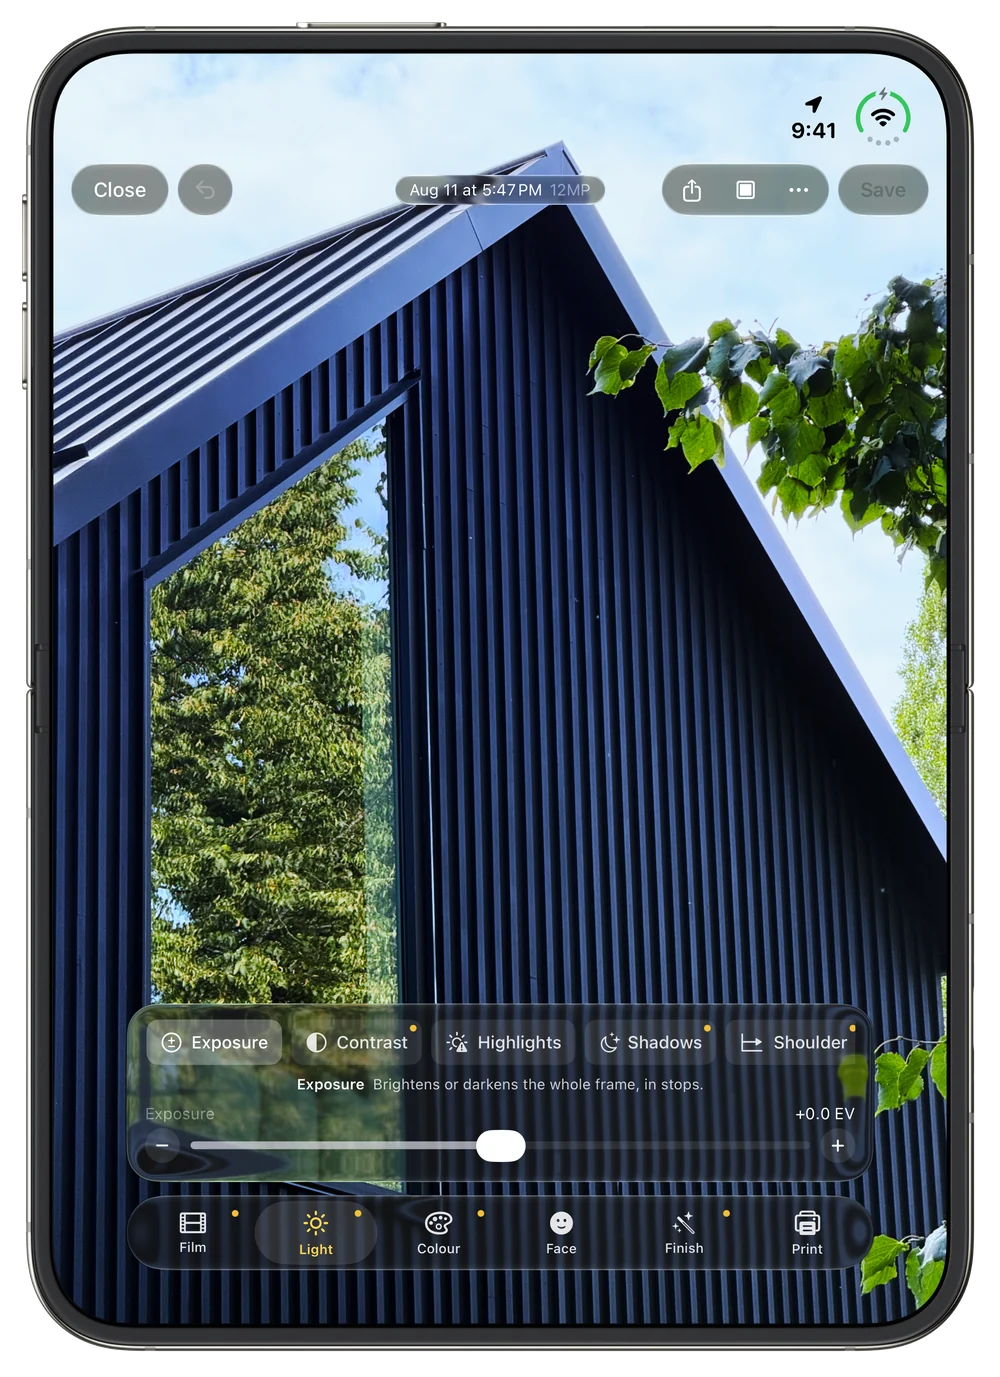
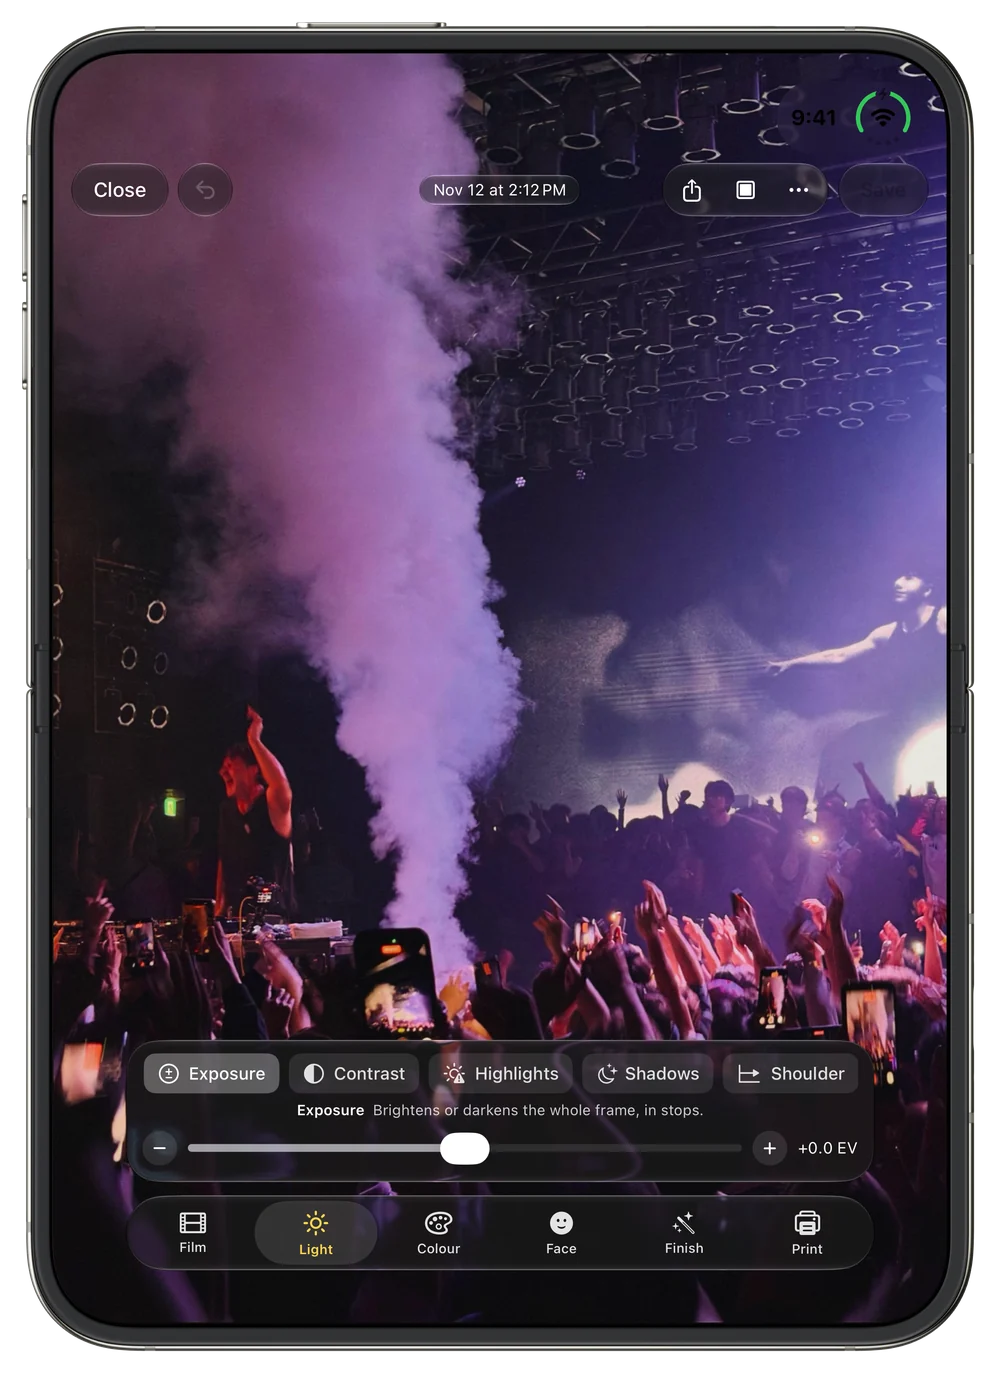
Home: the owner's lantern alley in the Field phone, on a white matte, and his concert in the Duo's editor

diff --git a/index.html b/index.html
@@ -653,7 +653,7 @@
         <div class="note glass"><b>Tap the photo</b> and it is only the picture.</div>
       </div>
       <div class="reveal d1">
-        <img src="/assets/duo-upright-editor.webp" width="1000" height="1377" loading="lazy"
+        <img src="/assets/duo-upright-editor.webp?v=2" width="1000" height="1377" loading="lazy"
              alt="Haku's immersive editor on an upright open iPhone Duo">
         <div class="note glass"><b>Your original stays untouched.</b> Every edit is a recipe you can change, copy or undo, forever.</div>
       </div>
@@ -813,7 +813,7 @@
     <div class="bodies">
       <figure class="reveal"><img src="/assets/iphone-classic-dials.webp?v=2" width="760" height="1554" loading="lazy" alt="Classic body with its shutter, ISO and EV dials">
         <figcaption class="cap">Classic</figcaption><p class="dim">Dials that turn and click, in black leather, where a rangefinder keeps them.</p></figure>
-      <figure class="reveal d1"><img src="/assets/iphone-field.webp?v=2" width="760" height="1554" loading="lazy" alt="Field body">
+      <figure class="reveal d1"><img src="/assets/iphone-field.webp?v=3" width="760" height="1554" loading="lazy" alt="Field body, the viewfinder on a lantern-lit alley">
         <figcaption class="cap">Field</figcaption><p class="dim">Chunky keys with little lights, an LCD that reads like the real thing, and one big orange button you will want to press. Every control is a key; none of them hides in a menu.</p></figure>
       <figure class="reveal d2"><img src="/assets/iphone-modern.webp?v=2" width="760" height="1554" loading="lazy" alt="Modern body, the viewfinder on a plate of crudo with the look strip under it">
         <figcaption class="cap">Modern</figcaption><p class="dim">The frame edge to edge and the looks under your thumb, for when you just want to shoot.</p></figure>
